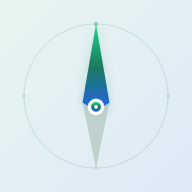
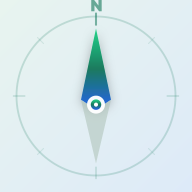
feat: virtuální karta, větší fonty, nová ikona s kompasem
- Přidána virtuální fyzická karta na vrchol Karta tabu (tmavý gradient, holografický lesk, tečky čísla karty, body)
- Zvětšení fontů: base 20px, text-xs 15px, text-sm 17px, text-base 19px atd.
- Ikona kompasu vrácena na světlé pozadí s detaily: "N" popisek, viditelný rám, rysky na kardinálních bodech

Changed region(s): [[0.0625, 0.0, 0.9375, 0.9375], [0.4062, 0.3125, 0.5938, 0.5938], [0.4688, 0.2812, 0.5312, 0.3125]]

diff --git a/app/page.tsx b/app/page.tsx
@@ -340,6 +340,72 @@ export default function AppPage() {
           >
             <div className="header-top pb-8">
 
+              {/* ── Virtuální fyzická karta ── */}
+              <div className="px-5 mb-5">
+                <motion.div
+                  initial={{ opacity: 0, y: 14, scale: 0.97 }}
+                  animate={{ opacity: 1, y: 0, scale: 1 }}
+                  transition={{ type: "spring", stiffness: 320, damping: 28 }}
+                  className="relative rounded-[28px] overflow-hidden shadow-2xl"
+                  style={{ height: 206, background: "linear-gradient(135deg, #0a2540 0%, #0f3d5c 40%, #0d3d2a 100%)" }}
+                >
+                  {/* Dekorativní kruhy */}
+                  <div className="absolute -top-20 -right-20 w-72 h-72 rounded-full" style={{ background: "rgba(26,122,94,0.22)" }} />
+                  <div className="absolute -bottom-24 -left-16 w-64 h-64 rounded-full" style={{ background: "rgba(37,99,235,0.18)" }} />
+                  {/* Holografický lesk */}
+                  <div className="holo-shine absolute inset-0 opacity-25 pointer-events-none" />
+
+                  <div className="absolute inset-0 p-5 flex flex-col justify-between">
+                    {/* Vrchní řada */}
+                    <div className="flex items-start justify-between">
+                      <div>
+                        <p className="text-xs font-bold uppercase tracking-widest mb-0.5" style={{ color: "rgba(255,255,255,0.42)" }}>
+                          Návštěvnická karta
+                        </p>
+                        <p className="font-black text-base text-white leading-tight" style={{ fontFamily: "var(--font-outfit)" }}>
+                          Berounsko · Brdy · Podbrdsko
+                        </p>
+                      </div>
+                      <div className="w-11 h-11 rounded-2xl flex items-center justify-center flex-shrink-0"
+                        style={{ background: "rgba(255,255,255,0.10)", border: "1px solid rgba(255,255,255,0.16)" }}>
+                        <Compass size={22} color="white" strokeWidth={2.2} />
+                      </div>
+                    </div>
+
+                    {/* Číslo karty — tečky */}
+                    <div className="flex items-center gap-3.5">
+                      {[0, 1, 2, 3].map(g => (
+                        <div key={g} className="flex gap-1.5">
+                          {[0, 1, 2, 3].map(d => (
+                            <div key={d} className="w-2 h-2 rounded-full" style={{ background: "rgba(255,255,255,0.38)" }} />
+                          ))}
+                        </div>
+                      ))}
+                    </div>
+
+                    {/* Spodní řada */}
+                    <div className="flex items-end justify-between">
+                      <div>
+                        <p className="text-[11px] font-semibold uppercase tracking-wider mb-1" style={{ color: "rgba(255,255,255,0.42)" }}>
+                          Držitel karty
+                        </p>
+                        <p className="font-black text-lg text-white leading-none" style={{ fontFamily: "var(--font-outfit)" }}>
+                          {isRegistered ? userName : "—"}
+                        </p>
+                      </div>
+                      <div className="text-right">
+                        <p className="text-[11px] font-semibold uppercase tracking-wider mb-1" style={{ color: "rgba(255,255,255,0.42)" }}>
+                          Body
+                        </p>
+                        <p className="font-black text-2xl leading-none" style={{ fontFamily: "var(--font-outfit)", background: "linear-gradient(90deg, #34d99a, #2563eb)", WebkitBackgroundClip: "text", WebkitTextFillColor: "transparent" }}>
+                          {points}
+                        </p>
+                      </div>
+                    </div>
+                  </div>
+                </motion.div>
+              </div>
+
               {/* Registrace výzva nebo uvítání */}
               {!isRegistered ? (
                 <motion.div

diff --git a/app/globals.css b/app/globals.css
@@ -40,18 +40,18 @@ body {
   font-family: var(--font-sans), system-ui, sans-serif;
   -webkit-font-smoothing: antialiased;
   color: var(--text-main);
-  font-size: 18px;
+  font-size: 20px;
 }
 
 /* Globální zvětšení Tailwind font scale */
 @layer base {
-  .text-xs   { font-size: 13px !important; line-height: 1.5 !important; }
-  .text-sm   { font-size: 15px !important; line-height: 1.55 !important; }
-  .text-base { font-size: 17px !important; line-height: 1.6 !important; }
-  .text-lg   { font-size: 20px !important; line-height: 1.45 !important; }
-  .text-xl   { font-size: 22px !important; line-height: 1.4 !important; }
-  .text-2xl  { font-size: 26px !important; line-height: 1.3 !important; }
-  .text-3xl  { font-size: 30px !important; line-height: 1.25 !important; }
+  .text-xs   { font-size: 15px !important; line-height: 1.5 !important; }
+  .text-sm   { font-size: 17px !important; line-height: 1.55 !important; }
+  .text-base { font-size: 19px !important; line-height: 1.6 !important; }
+  .text-lg   { font-size: 22px !important; line-height: 1.45 !important; }
+  .text-xl   { font-size: 25px !important; line-height: 1.4 !important; }
+  .text-2xl  { font-size: 29px !important; line-height: 1.3 !important; }
+  .text-3xl  { font-size: 34px !important; line-height: 1.25 !important; }
 }
 
 * {